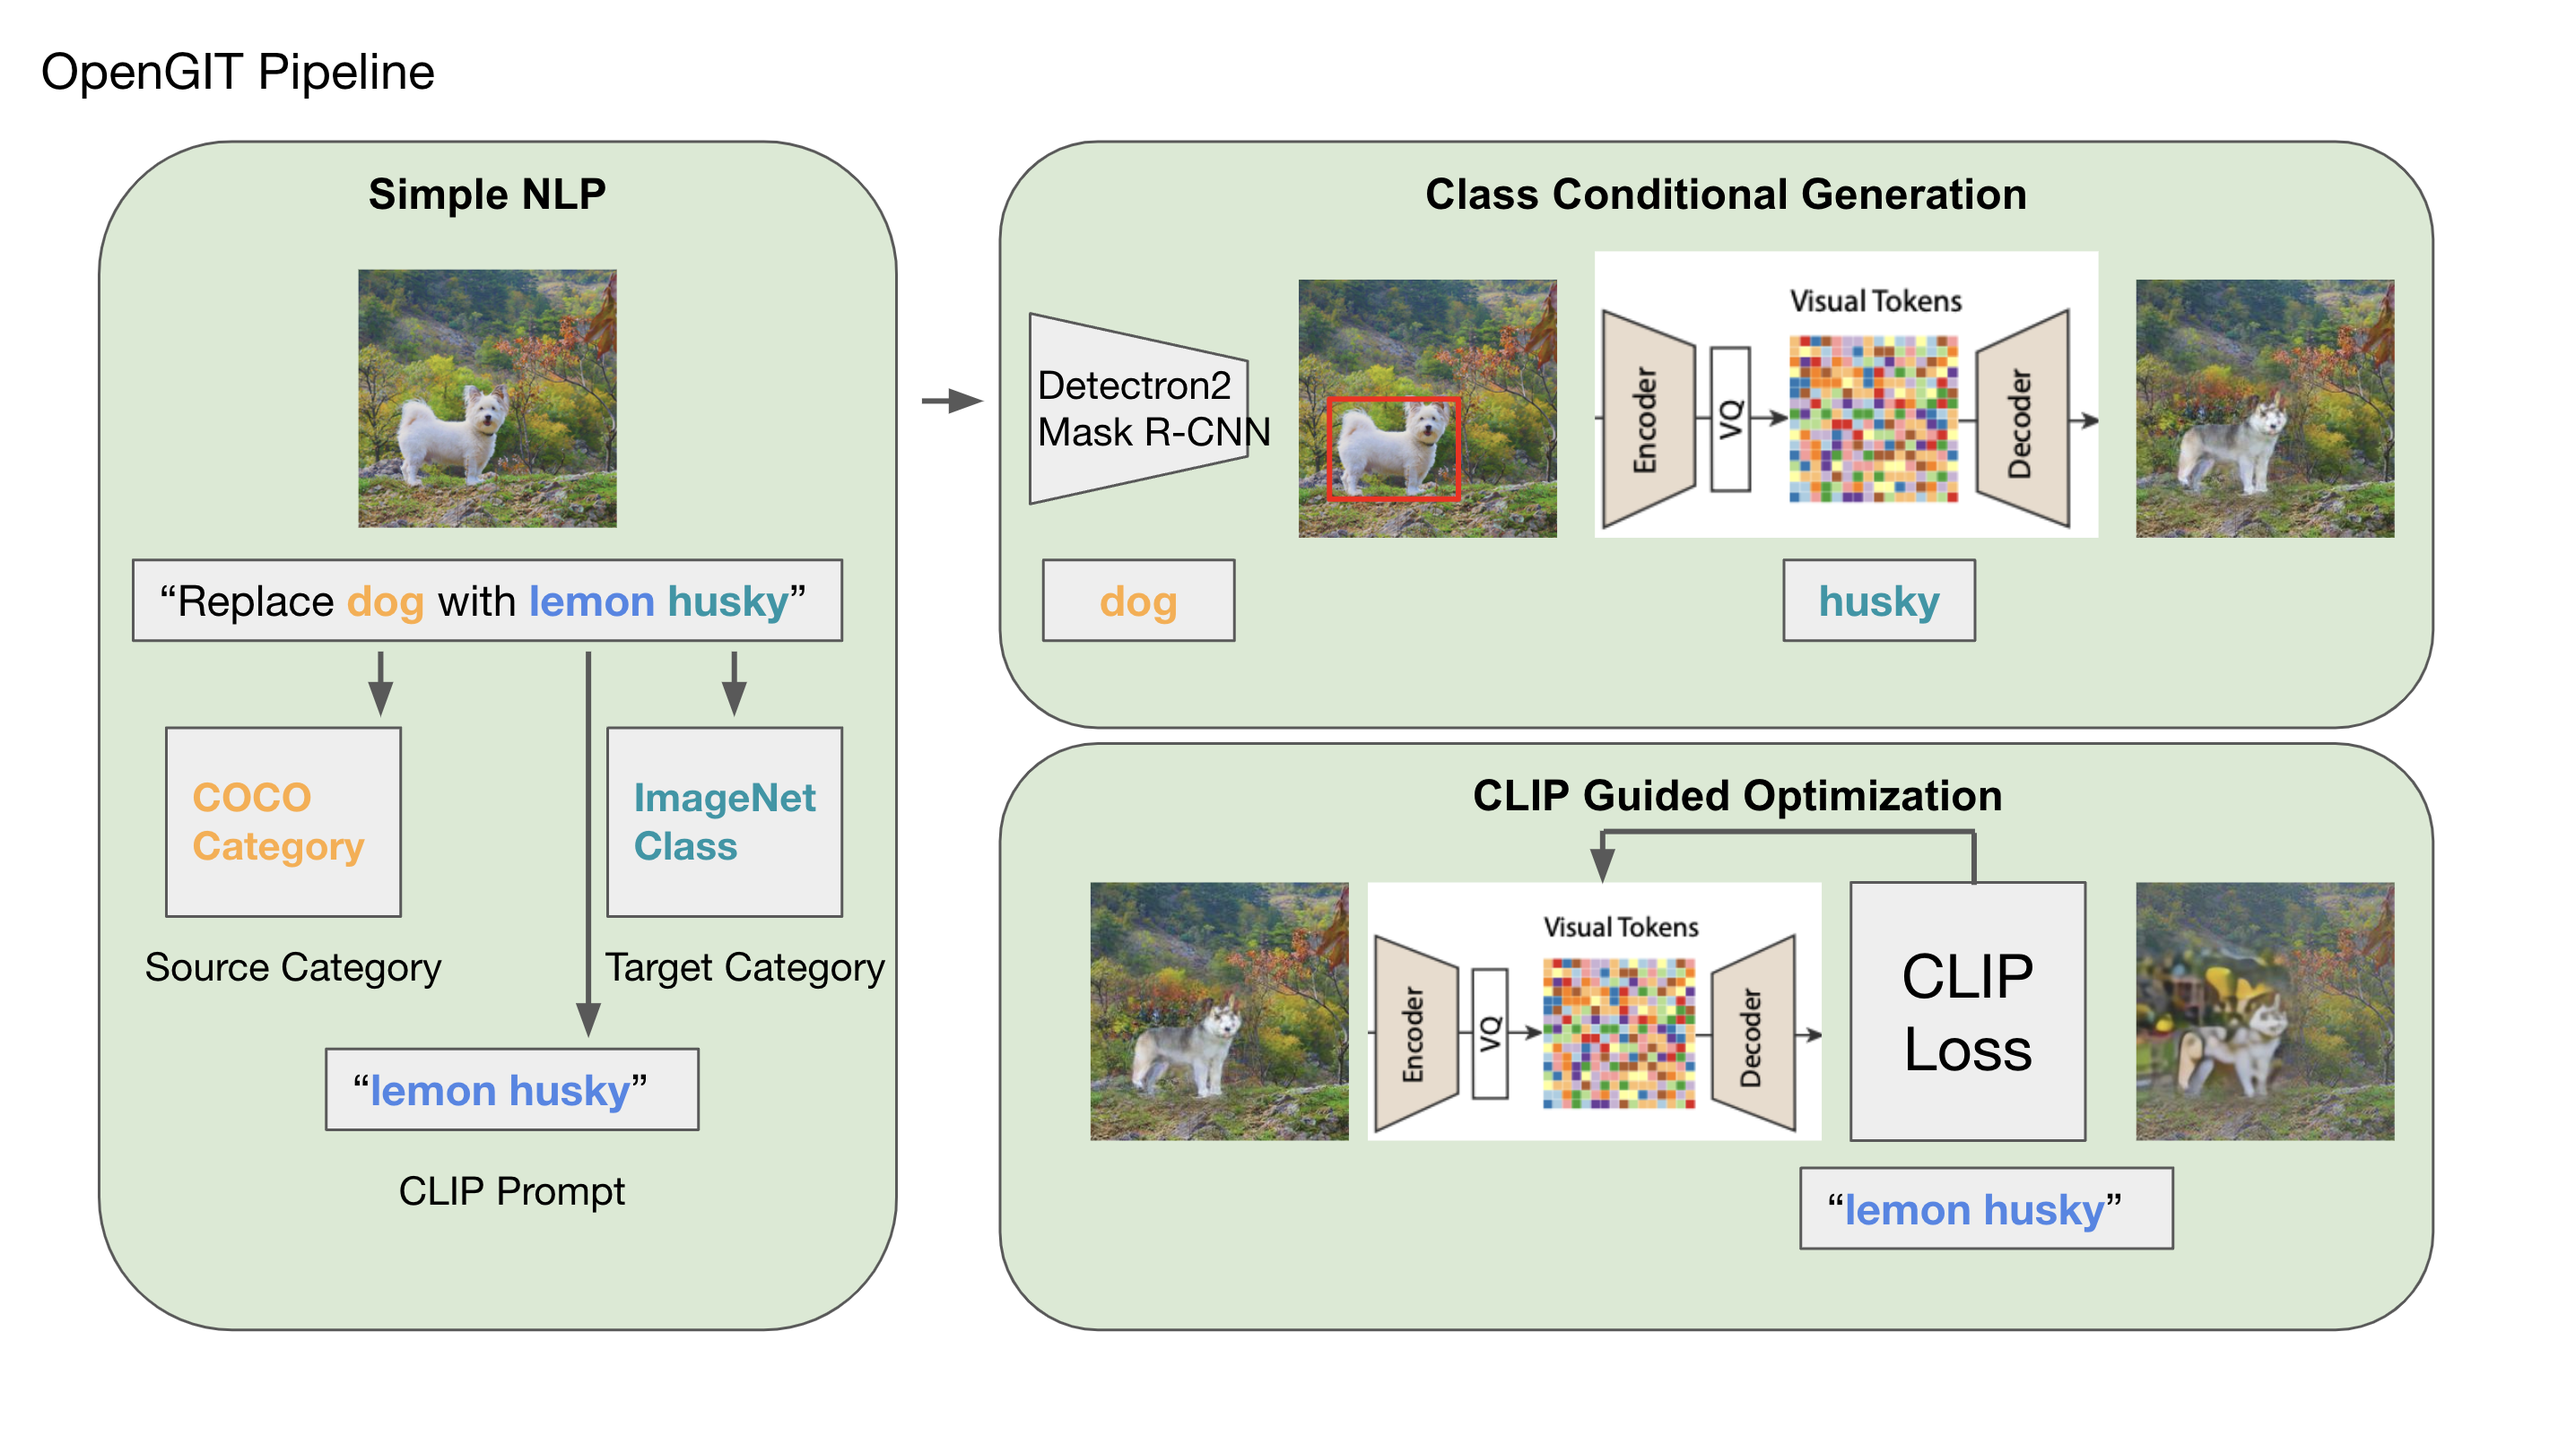
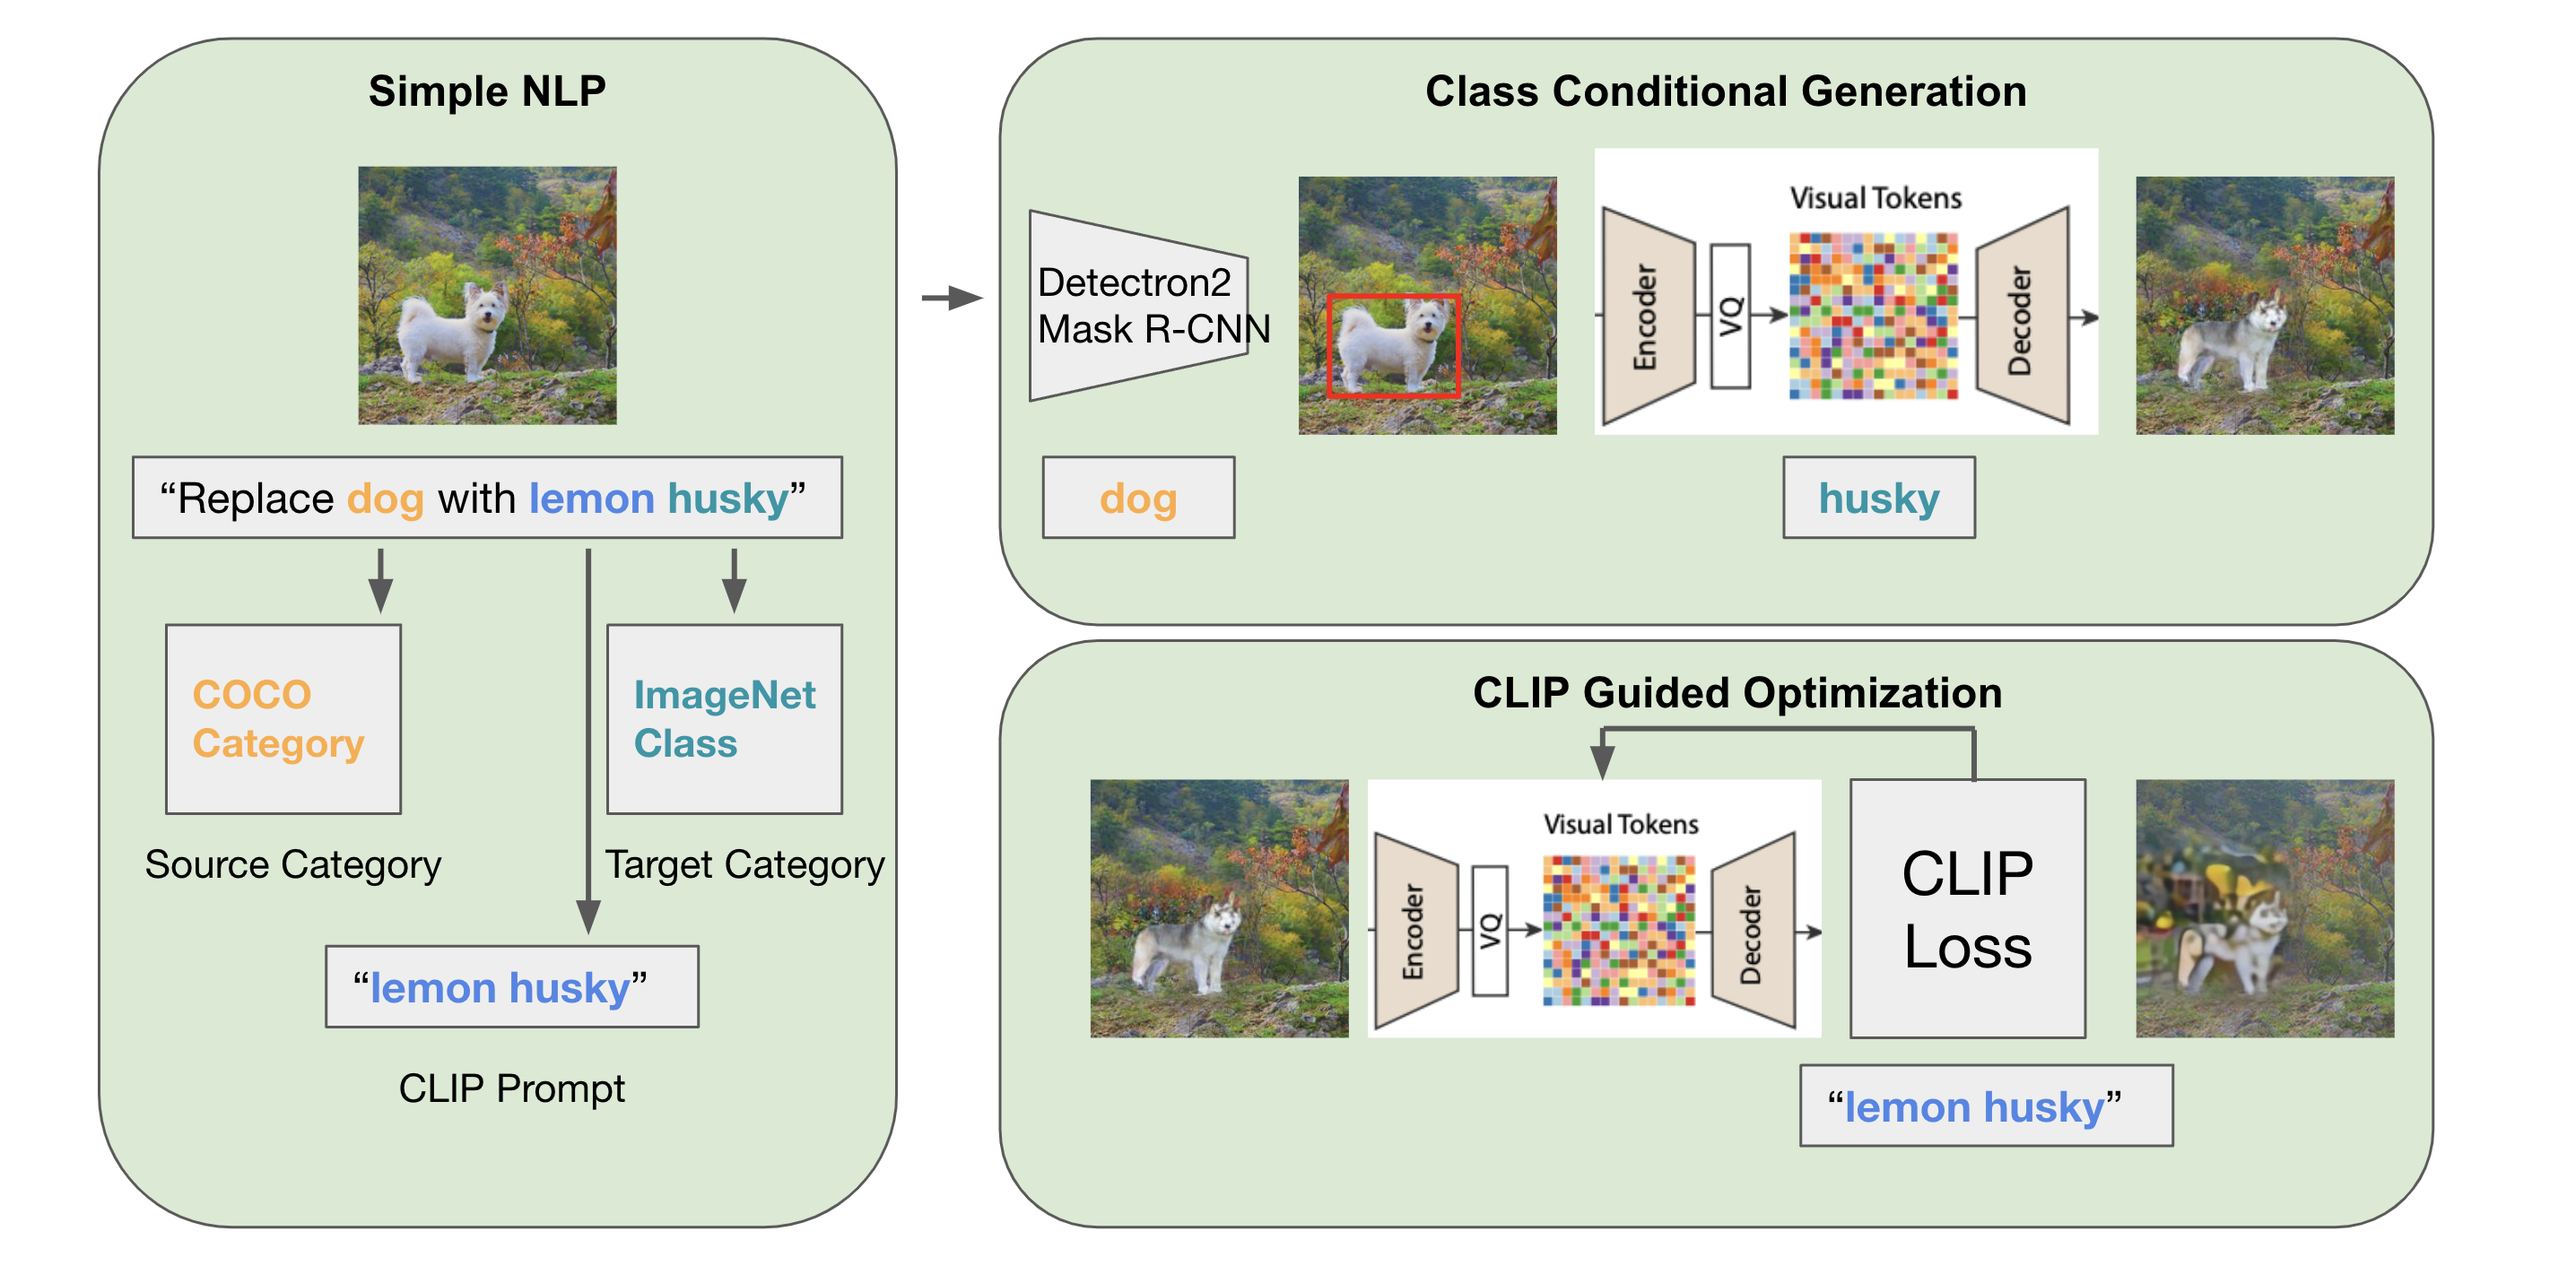
Added Method

diff --git a/index.html b/index.html
@@ -1,6 +1,18 @@
 <script src="http://www.google.com/jsapi" type="text/javascript"></script> 
 <script type="text/javascript">google.load("jquery", "1.3.2");</script>
 
+<script type="text/javascript" id="MathJax-script" async
+          src="https://cdn.jsdelivr.net/npm/mathjax@3/es5/tex-chtml.js">
+        </script>
+        <!-- sets $$ as shorthand for in-text math functions -->
+        <script>
+         window.MathJax = {
+            tex: {
+              inlineMath: [['$', '$'], ['\\(', '\\)']]
+            }
+          };
+        </script>
+
 <style type="text/css">
 	body {
 		font-family: "HelveticaNeue-Light", "Helvetica Neue Light", "Helvetica Neue", Helvetica, Arial, "Lucida Grande", sans-serif; 
@@ -144,6 +156,11 @@
 				<tr>
 					<td align=center width=100px>
 						<center>
+							<span style="font-size:24px"><a href="https://en.wikipedia.org/wiki/James_J._Gibson">Zhizhuo Zhou</a></span>
+						</center>
+					</td>
+          <td align=center width=100px>
+						<center>
 							<span style="font-size:24px"><a href="https://en.wikipedia.org/wiki/James_J._Gibson">Gaoyue Zhou</a></span>
 						</center>
 					</td>
@@ -152,11 +169,7 @@
 							<span style="font-size:24px"><a href="https://en.wikipedia.org/wiki/James_J._Gibson">Qiyun Chen</a></span>
 						</center>
 					</td>
-					<td align=center width=100px>
-						<center>
-							<span style="font-size:24px"><a href="https://en.wikipedia.org/wiki/James_J._Gibson">Zhizhuo Zhou</a></span>
-						</center>
-					</td>
+					
 				</tr>
 			</table>
 			<table align=center width=250px>
@@ -233,10 +246,51 @@
       <td>
         <center>
           <img class="round" style="width:800px" src="./resources/pipeline.png"/>
+          <figcaption>OpenGIT Pipeline</figcaption>
         </center>
 			</td>
 		</tr>
 	</table>
+
+  <table align=center width=850px>
+    <tr>
+      <td>
+        <br>
+        Our proposed OpenGIT Pipeline consists of three main components: <b>Natural Language Processing Module</b>,
+        <b>Class Conditional Image Generation</b>, and <b>CLIP Guided Optimization</b>.<br><br>
+        The entire procedure is as follows: <br><br>
+        Firstly, OpenGIT performs Natural Language Processing (NLP), the user inputs an image and a natural language prompt
+        specifying the source category (the item to be replaced in the input image) and the target category (
+        the item to change into). The source category must be from one of the 
+        <a href="https://github.com/amikelive/coco-labels"> categories in the COCODataset </a>. The main target
+        category (or categories) should be within the 1000 lables in the <a href="https://www.image-net.org/">ImageNet Dataset</a>. 
+        However, it can be a simple category like "husky", or it can also be any open-domain phrase that describes
+        the category (categories), such as "zebra-striped cat" or "fish and strawberry".<br>
+        As an illustration for the first module, the user could input an image of a dog and a prompt 
+        "Replace dog with lemon husky". Then, our module would parse "dog" as our source category, "husky"
+        as our target category, and "lemon husky" as our CLIP prompt. Here, note that because we used a descriptive
+        word for our target category, we would use CLIP to further optimize our image. Otherwise, if the input prompt
+        merely said "Replace dog with husky", then we would not have any CLIP prompt nor perform CLIP optimization.
+        <br><br>
+        Secondly, OpenGIT performs Class Conditional Generation. This module take as inputs
+        the input image along with the source and target category. The module first uses Detectron2 and Mask R-CNN
+        to locate the bounding box of the source category, and then feed it through a pretrained MaskGIT
+        model to generate a class conditioned image. Here, we offer users to choose a hyperparameter 
+        $r \in (0, 1]$ as the scale of the original bounding box. For example, in general, if $r = 1$, 
+        then OpenGIT would completely replace the source category with the target category. If $r < 1$, 
+        then OpenGIT would keep the outerior of the source category and merges the target category into the 
+        source category (see examples in Results section below).
+        <br><br>
+        Thirdly, OpenGIT performs CLIP Guided Optimization. For the user input prompts with a descriptive
+        prompt for the target category, the first NLP module would obtain a non-empty CLIP prompt.
+        We take our class conditioned generated output and the CLIP prompt as the input to this
+        module, and we use a pretrained CLIP module to generate the output image.
+      </td>
+    </tr>
+  </table>
+  
+
+  
 
 	<br>
 	<hr>
@@ -244,6 +298,19 @@
 
 	<table align=center width=850px>
 		<center><h1>Results</h1></center>
+		<tr>
+			<td>
+				'_________________'
+			</td>
+		</tr>
+	</table>
+  
+  <br>
+	<hr>
+	<br>
+
+  <table align=center width=850px>
+		<center><h1>References</h1></center>
 		<tr>
 			<td>
 				'_________________'
